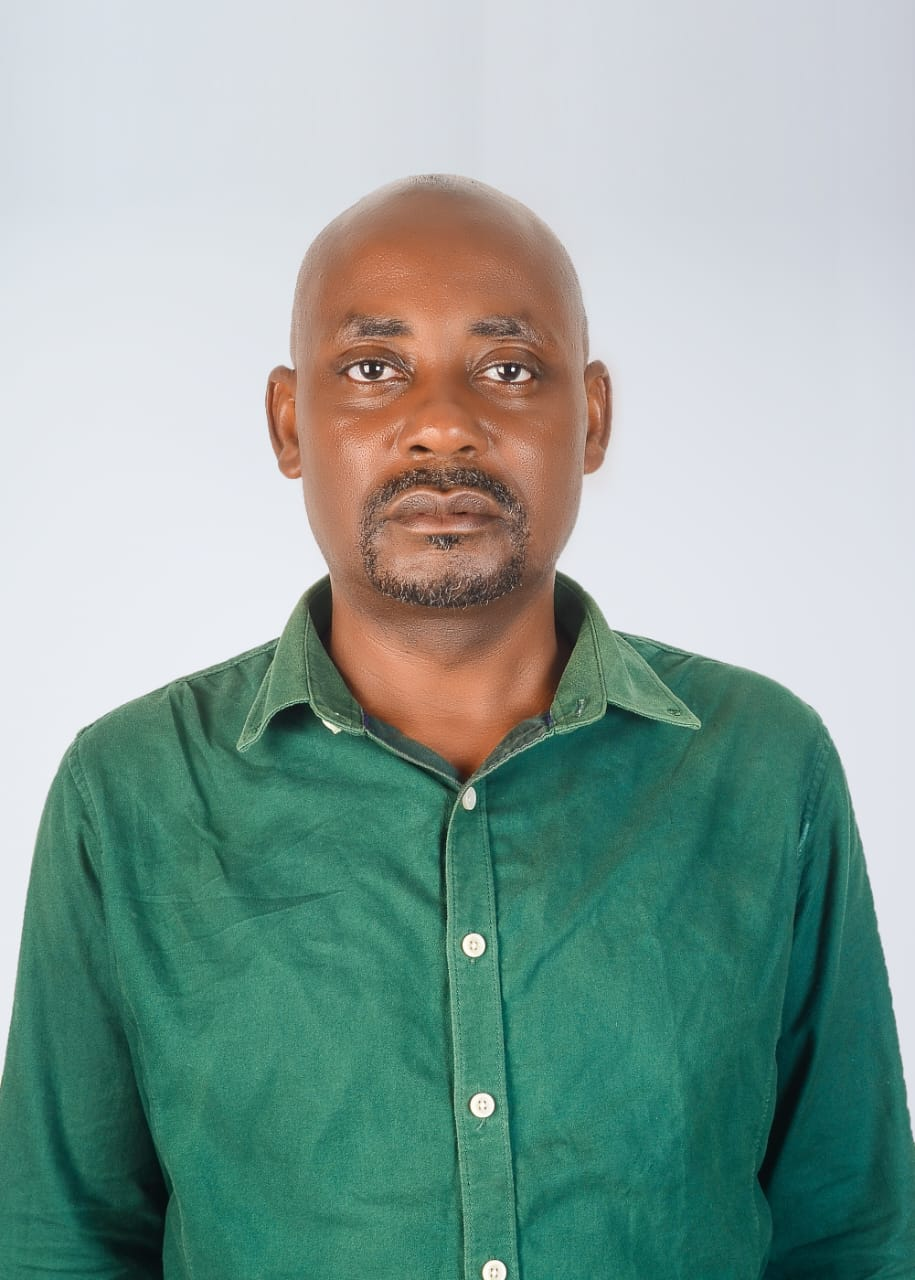
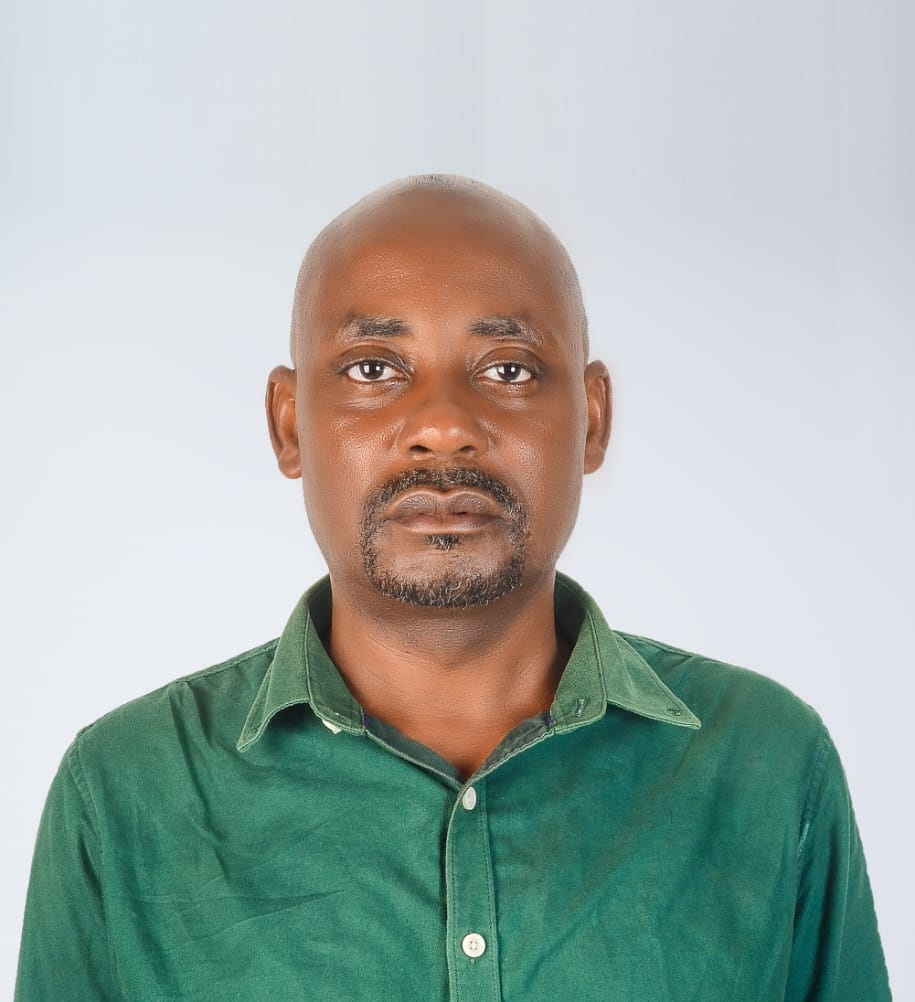
MTN merchant details added and Hero font decreased as per client request

diff --git a/index.html b/index.html
@@ -90,7 +90,7 @@
             z-index: 1;
         }
 
-        .hero-section > * {
+        .hero-section>* {
             position: relative;
             z-index: 2;
         }
@@ -565,8 +565,10 @@
     <section id="home" class="hero-section">
         <div class="container">
             <div class="hero-pill mx-auto"><i class="fa-solid fa-dove"></i> Worship • Fellowship • Growth</div>
-            <h1>Welcome to Divine Power Of Christ Ministries</h1>
-            <h2 style="color: #537db8; font-family: 'Lucida Sans', 'Lucida Sans Regular', 'Lucida Grande', 'Lucida Sans Unicode', Geneva, Verdana, sans-serif;"> <strong>Call +256 - 771 696 769</strong></h2>
+            <h2>Welcome to Divine Power Of Christ Ministries</h2>
+            <h3
+                style="color: #537db8; font-family: 'Lucida Sans', 'Lucida Sans Regular', 'Lucida Grande', 'Lucida Sans Unicode', Geneva, Verdana, sans-serif;">
+                Call +256 - 771 696 769</h3>
             <p class="lead mb-4">A place of worship, fellowship, and spiritual growth</p>
             <p class="mb-0">Join us as we seek God's presence and serve our community</p>
             <div class="mt-4 d-flex flex-wrap gap-2 justify-content-center">
@@ -670,7 +672,8 @@
                             <div class="collapse mt-3" id="msgLeader">
                                 <div class="small">
                                     <p><strong>Our message to the Church and the World is basically
-                                            preparation!</strong> </p> <hr>
+                                            preparation!</strong> </p>
+                                    <hr>
                                     <p> We are
                                         evidently living in the Last days and witnessing broad opening of scroll of
                                         Matthew 24 where Apocalyptic events mentioned by Jesus Christ are being revealed
@@ -699,7 +702,8 @@
                                     <p> All partners of the truth who agree with foundation doctrine of Jesus Christ are
                                         welcome support us in this Gigantic mission given to us by our Lord Jesus Christ
                                         and the Lord will surely bless you!
-                                    </p> <hr>
+                                    </p>
+                                    <hr>
                                     <p class="mb-0"><em>— Apostle Ambrose Twesigye</em></p>
                                 </div>
                             </div>
@@ -765,21 +769,46 @@
 
                             <div class="collapse mt-3" id="msgAdmin">
                                 <div class="small">
-                                    <p><strong>A Message for Today’s Church</strong> Greetings in the precious name of our Lord and Savior, Jesus Christ.</p>
+                                    <p><strong>A Message for Today’s Church</strong> Greetings in the precious name of
+                                        our Lord and Savior, Jesus Christ.</p>
 
-                                    <p>We thank God for the gift of life and the opportunity to gather together as His people. We find ourselves in a pivotal moment—a generation filled with knowledge, activity, and many churches, yet also marked by profound spiritual confusion.</p>
+                                    <p>We thank God for the gift of life and the opportunity to gather together as His
+                                        people. We find ourselves in a pivotal moment—a generation filled with
+                                        knowledge, activity, and many churches, yet also marked by profound spiritual
+                                        confusion.</p>
 
                                     <p>As we reflect on our calling, let us turn to Scripture:</p>
-                                    <li>“And I tell you, you are Peter, and on this rock I will build my church, and the gates of hell shall not prevail against it.” (Matthew 16:18)</li>
-                                    <li>“For I am not ashamed of the gospel, for it is the power of God for salvation to everyone who believes…” (Romans 1:16)</li>
+                                    <li>“And I tell you, you are Peter, and on this rock I will build my church, and the
+                                        gates of hell shall not prevail against it.” (Matthew 16:18)</li>
+                                    <li>“For I am not ashamed of the gospel, for it is the power of God for salvation to
+                                        everyone who believes…” (Romans 1:16)</li>
                                     <p>Today, we are invited to honestly consider:</p>
-                                    <ol><li>The true state of the Church today</li>
-                                    <li>The Gospel we are proclaiming</li><li>The meaning of salvation in our generation</li>
-                                </ol> <hr>
-                                    <p><strong>The State of the Church Today</strong></p><p>The Church has expanded in numbers, buildings, and programs. Yet true growth is measured not merely by attendance, but by spiritual maturity. While congregations and activities have multiplied, we must ask: Are we growing deeper in Christ, or only wider in influence?</p> <p>We are called to be salt and light—yet too often, the world shapes us more than we shape the world. Still, we give thanks to God, who has preserved a faithful remnant—men and women who continue to hunger for righteousness and truth.</p>
-                                    <p><strong>The Gospel in This Generation</strong></p> <p>The Gospel is not a message of mere prosperity, popularity, or comfort. It is the good news that Jesus Christ came, died for our sins, was buried, and rose again to save humanity (1 Corinthians 15:1–4).</p> <p>Today, there is a danger of preaching a gospel that draws crowds but does not transform hearts. The true Gospel convicts, calls for repentance, and leads to a life unmistakably changed by grace.</p> <hr><p>May we be a Church grounded in truth, powered by the Gospel, and alive in genuine salvation.
+                                    <ol>
+                                        <li>The true state of the Church today</li>
+                                        <li>The Gospel we are proclaiming</li>
+                                        <li>The meaning of salvation in our generation</li>
+                                    </ol>
+                                    <hr>
+                                    <p><strong>The State of the Church Today</strong></p>
+                                    <p>The Church has expanded in numbers, buildings, and programs. Yet true growth is
+                                        measured not merely by attendance, but by spiritual maturity. While
+                                        congregations and activities have multiplied, we must ask: Are we growing deeper
+                                        in Christ, or only wider in influence?</p>
+                                    <p>We are called to be salt and light—yet too often, the world shapes us more than
+                                        we shape the world. Still, we give thanks to God, who has preserved a faithful
+                                        remnant—men and women who continue to hunger for righteousness and truth.</p>
+                                    <p><strong>The Gospel in This Generation</strong></p>
+                                    <p>The Gospel is not a message of mere prosperity, popularity, or comfort. It is the
+                                        good news that Jesus Christ came, died for our sins, was buried, and rose again
+                                        to save humanity (1 Corinthians 15:1–4).</p>
+                                    <p>Today, there is a danger of preaching a gospel that draws crowds but does not
+                                        transform hearts. The true Gospel convicts, calls for repentance, and leads to a
+                                        life unmistakably changed by grace.</p>
+                                    <hr>
+                                    <p>May we be a Church grounded in truth, powered by the Gospel, and alive in genuine
+                                        salvation.
 
-</p>
+                                    </p>
                                     <p class="mb-0"><em>— Church Administrator</em></p>
                                 </div>
                             </div>
@@ -1170,7 +1199,8 @@
             <div class="row">
                 <div class="col-md-8 mx-auto">
                     <div class="contact-form">
-                        <form id="contactForm" action="https://formsubmit.co/info@divinepowerofchrist.org" method="POST">
+                        <form id="contactForm" action="https://formsubmit.co/info@divinepowerofchrist.org"
+                            method="POST">
                             <!-- Send to info@divinepowerofchrist.org via Formsubmit.co -->
                             <input type="hidden" name="_subject" value="Website Contact: New message" />
                             <input type="hidden" name="_captcha" value="false" />
@@ -1342,7 +1372,39 @@
                             </div>
                         </div>
                     </div>
-
+                    <!-- MTN Merchant Section -->
+                    <div class="card mb-4 border-warning">
+                        <div class="card-header bg-warning text-white">
+                            <h6 class="mb-0">
+                                <i class="fas fa-qrcode me-2"></i> MTN Merchant Code
+                            </h6>
+                        </div>
+                        <div class="card-body">
+                            <div class="row align-items-center g-3">
+                                <div class="col-md-5 text-center">
+                                    <img src="/img/mtn.jpg" class="img-fluid rounded shadow-sm"
+                                        alt="MTN Momo QR">
+                                    <div class="text-muted small mt-2">MTN Momo</div>
+                                </div>
+                                <div class="col-md-7">
+                                    <div class="mb-3">
+                                        <strong class="d-block text-muted">Merchant Code:</strong>
+                                        <span class="fs-3 fw-bold text-danger">53107270</span>
+                                        <div class="text-muted small mt-2">Divine Power Of Christ Ministries</div>
+                                    </div>
+                                    <div class="mb-3">
+                                        <strong class="d-block text-muted">USSD:</strong>
+                                        <span class="fs-5 fw-bold">Dial *165*3#</span>
+                                    </div>
+                                    <div class="alert alert-info mb-0">
+                                        <i class="fas fa-info-circle me-2"></i>
+                                        When paying, add <strong>your name</strong> and the purpose (Tithe / Offering /
+                                        Gift) where applicable.
+                                    </div>
+                                </div>
+                            </div>
+                        </div>
+                    </div>
                     <!-- Quick Actions -->
                     <div class="text-center mt-4">
                         <p class="text-muted mb-3">
@@ -1512,20 +1574,20 @@
                 body: formData,
                 headers: { 'Accept': 'application/json' }
             })
-            .then(response => {
-                if (response.ok) {
-                    alert('Thank you for your message! We will get back to you soon.');
-                    form.reset();
-                } else {
-                    return response.json().then(data => Promise.reject(data));
-                }
-            })
-            .catch(() => {
-                alert('Sorry — there was a problem sending your message. Please email info@divinepowerofchrist.org directly.');
-            })
-            .finally(() => {
-                if (submitBtn) submitBtn.disabled = false;
-            });
+                .then(response => {
+                    if (response.ok) {
+                        alert('Thank you for your message! We will get back to you soon.');
+                        form.reset();
+                    } else {
+                        return response.json().then(data => Promise.reject(data));
+                    }
+                })
+                .catch(() => {
+                    alert('Sorry — there was a problem sending your message. Please email info@divinepowerofchrist.org directly.');
+                })
+                .finally(() => {
+                    if (submitBtn) submitBtn.disabled = false;
+                });
         });
 
         document.getElementById('prayerForm').addEventListener('submit', function (e) {
@@ -1545,6 +1607,11 @@ Account Name: Divine Power of Christ Ministries Ltd.
 Airtel Money Merchant (Scan to Pay)
 Merchant ID: 6993587
 USSD: Dial *185*9#
+
+MTN Merchant Code
+Merchant Code: 53107270
+Divine Power Of Christ Ministries
+USSD: Dial *165*3#
 
 Please include your name and donation type (Tithe/Offering/Gift) as reference.`;
 
